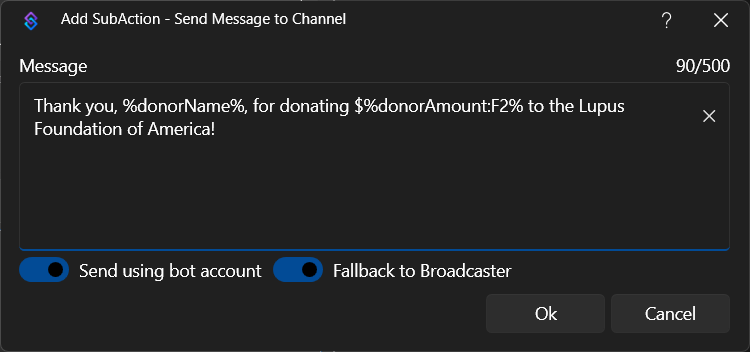
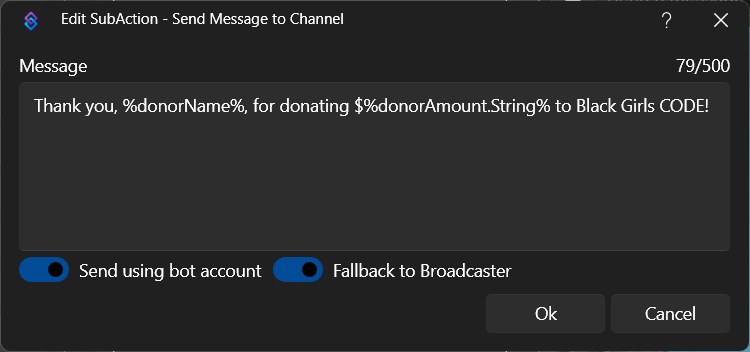
Add files via upload

diff --git a/tiltify-integration.html b/tiltify-integration.html
@@ -63,7 +63,7 @@
 <section>
 <h2 id="Download_Code">Download Code</h2>
 <button onclick="window.open('https://ko-fi.com/s/7d7437c1c9')" type="button" class="download-button">
-    <p><strong>Tiltify Integration for Streamer.Bot</strong></p>
+    <p><strong>Tiltify Integration for Streamer.Bot v3.1</strong></p>
     <p><i class="fa-solid fa-mug-hot fa-lg" style="padding-right: 0.5rem;"></i>EarthToThien's Ko-fi Shop</p>
 </button>
 </section>
@@ -166,11 +166,13 @@
     <tr>
         <td><code class="code-red">donorAmount</code></td>
         <td>Decimal</td>
-        <td>Donation amount (USD) made to the Tiltify campaign.
-            <br>
-            <span class="text-red">Note:</span> If you are using the C# Compiler for your alert actions, it is recommended to convert <code class="code-red">donorAmount</code> to String (i.e., <code class="code-red">donorAmount.ToString("F2")</code>) before displaying it in your on-screen alert or chat alert message. For other subactions such as <strong>Send Message to Channel</strong>, you will also need to format your argument (i.e., <code class="code-red">%donorAmount:F2%</code>).
-        </td>
+        <td>Donation amount (USD) made to the Tiltify campaign.</td>
     </tr>
+    <tr>
+        <td><code class="code-red">donorAmount.String</code></td>
+        <td>String</td>
+        <td><code class="code-red">donorAmount</code> argument as a String. Used to display the donation amount in text-based outputs such as <strong>Send Message to Channel</strong> or <strong>Set GDI Text</strong> for OBS.</td>
+    </tr>    
     <tr>
         <td><code class="code-red">donorComment</code></td>
         <td>String</td>
@@ -193,11 +195,11 @@
     <figcaption><strong>Figure 7:</strong> Example setup for a Streamer.Bot action for a donation alert. The action will send a Twitch message to thank the donor and then run the <span class="text-yellow">Get Total Raised</span> action.</figcaption>
 </figure>
 
-<p>In the Trigger window for your action, select the <span class="text-blue">Get Donation</span> trigger. This is so that when a new donation is detected for your campaign, this alert action will trigger. Since a chat message will be used for the alert, a <strong>Send Message to Channel</strong> sub-action is added in the Sub-Actions window. Figure 8 shows the message that will be sent to the channel's chat and how it will utilize the <code class="code-red">donorName</code> and <code class="code-red">donorAmount</code> arguments (Figure 7).</p>
+<p>In the Trigger window for your action, select the <span class="text-blue">Get Donation</span> trigger. This is so that when a new donation is detected for your campaign, this alert action will trigger. Since a chat message will be used for the alert, a <strong>Send Message to Channel</strong> sub-action is added in the Sub-Actions window. Figure 8 shows the message that will be sent to the channel's chat and how it will utilize the <code class="code-red">donorName</code> and <code class="code-red">donorAmount.String</code> arguments (Figure 7).</p>
 
 <figure>
     <img src="images/Tiltify Integration/08 Send Message.webp" alt="Example of how the Send Message to Channel sub-action can be setup to send a donation alert to the Twitch chat. It utilizes the arguments donorName and donorAmount. These arguments are generated by the List Donations action" style="max-width: 52%; height: auto;">
-    <figcaption><strong>Figure 8:</strong> Example of how the <strong>Send Message to Channel</strong> sub-action can be used to send a donation alert to the Twitch chat. It utilizes the arguments <code class="code-red">donorName</code> and <code class="code-red">donorAmount</code>. These arguments are generated by the <span class="text-yellow">List Donations</span> action.</figcaption>
+    <figcaption><strong>Figure 8:</strong> Example of how the <strong>Send Message to Channel</strong> sub-action can be used to send a donation alert to the Twitch chat. It utilizes the arguments <code class="code-red">donorName</code> and <code class="code-red">donorAmount.String</code>. These arguments are generated by the <span class="text-yellow">List Donations</span> action.</figcaption>
 </figure>
 
 For the last sub-action, we will have Streamer.Bot run the <span class="text-yellow">Get Total Raised</span> action. This sub-action is optional, and the action will be explained in the next section.
@@ -229,6 +231,10 @@ For the last sub-action, we will have Streamer.Bot run the <span class="text-yel
 
 <section>
 <h2 id="Changelog">Changelog</h2>
+<h3>Version 3.1</h3>
+<ul style="padding-left: 1rem;">
+    <li><span class="text-yellow">List Donations</span> action updated to include <code class="code-red">donorAmount.String</code> argument. This argument can be used to display the donation amount in text-based ouputs such as <strong>Send Message to Channel</strong> or <strong>Set GDI Text</strong> for OBS.</li>
+</ul>
 <h3>Version 3.0</h3>
 <ul style="padding-left: 1rem;">
     <li>All actions re-labeled for clarity. Document updated to account for this change.</li>
